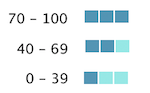
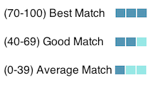
FIxing minor issues in front end

Changed region(s): [[0.0267, 0.6882, 0.9867, 0.9032], [0.0267, 0.3871, 0.9867, 0.5806], [0.0267, 0.086, 0.9867, 0.2581]]

diff --git a/static/js/main.js b/static/js/main.js
@@ -101,12 +101,12 @@ $(document).ready(function () {
         // console.log(data.title_data);
 
         var link1 = "http://www.simplyhired.com/k-";
-        var link3 = "-jobs.html";
+        var link3 = "-l-san-francisco-ca-jobs.html";
         var i = 0;
 
         $("#predictions-div").empty();
         $('#spinner-id').css('display', 'none');
-        $("#predictions-div").append($('<div class="column-90 column block-title"><h3>Your Top Jobs</h3></div><div class="column-10 column block-title"><h3><i class="fa fa-info-circle" title="The top job predictions are made based on various factors like your skills, education, degree level etc."></i></h3></div>'))
+        $("#predictions-div").append($('<div class="column-90 column block-title"><h3>Your Top Matches</h3></div><div class="column-10 column block-title"><h3><i class="fa fa-info-circle" title="Your top job predictions are determined based on various factors like your skills, education, degree level etc. We compare you against others similar to you to help you decide what you prospective next step could be"></i></h3></div>'))
         $("#predicted-titles-list" ).remove();
         var predicted_titles_list = $('<ul id="predicted-titles-list"></ul>');
 
@@ -120,36 +120,46 @@ $(document).ready(function () {
             var href = link1.concat(predicted[i].concat(link3));
             cand_skill_list = data.candidate_skills[predicted[i]];
 
-            li.append($('<div><a target="_blank" href="' + href + '">' + predicted[i] + '</a><div id="score-div"><span class="score" title="Calculated Score">' + scores[i] + '</span><div class="bar-div" title=""><span class="bar" id="bar1-' + i + '"></span><span class="bar" id="bar2-' + i + '"></span><span class="bar" id="bar3-' + i + '"></span></div></div></div>'));
+            li.append($('<div>' + predicted[i] + '<div id="score-div"><span class="score" title="Calculated Score">' + scores[i] + '</span><div class="bar-div" title=""><span class="bar" id="bar1-' + i + '"></span><span class="bar" id="bar2-' + i + '"></span><span class="bar" id="bar3-' + i + '"></span></div></div></div>'));
 
             var skill_div = $('<div class="skills-list-div"></div>');
             var skill_ul = $('<ul class="skills-list"></ul>');
-            skill_ul.append($('<li><strong>Matching Skills:</strong></li>'));
+            skill_ul.append($('<li><strong>Your matching Skills:</strong></li>'));
 
             skill_div.append(skill_ul);
 
             for (var k = 0; k < cand_skill_list.length; k++) {
                 skill_ul.append($('<li>· ' + cand_skill_list[k] + '</li>'));
             }
-            li.append(skill_div);
+            if (k !=0){
+                li.append(skill_div);
+            }
+
 
             var more_info = $('<div class="more-info-div" id="more-' + i + '"></div>');
-            more_info.append($('<div><span><strong>Average Salary: </strong>' + data.title_data[predicted[i]]["salary"] + '</div></span>'));
+            more_info.append($('<div><span><strong>Salary (US National Average): </strong>' + data.title_data[predicted[i]]["salary"] + '</div></span>'));
             more_info.append($('<div><span><strong>Education Level: </strong>' + data.title_data[predicted[i]]["education"] + '</div></span>'));
             // more_info.append($('<div><span><strong>Average Experience: </strong>5 Years</div></span>'));
             more_info.append($('<div><span><strong>Projected Jobs (2012 - 2022): </strong>' + data.title_data[predicted[i]]["trends"]["Projected job openings (2012-2022)"] + '</div></span>'));
             more_info.append($('<div><span><strong>Projected Growth (2012 - 2022): </strong>' + data.title_data[predicted[i]]["trends"]["Projected growth (2012-2022)"] + '</div></span>'));
             var rel_job = '';
             for (var a = 0; a < data.title_data[predicted[i]]["related_titles"].length; a++) {
+                if (a != data.title_data[predicted[i]]["related_titles"].length - 1){
                 rel_job = rel_job + data.title_data[predicted[i]]["related_titles"][a] + ', '
+                }
+                else{
+                   rel_job = rel_job + data.title_data[predicted[i]]["related_titles"][a]
+                }
             }
             if (rel_job) {
                 more_info.append($('<div><span><strong>Related Job Titles: </strong>' + rel_job + '</div></span>'));
             }
             more_info.append($('<div><span><a target="_blank" href="' + href + '">Search ' + predicted[i] + ' Jobs</a></div></span>'));
 
+            if (k !=0){
             li.append(more_info);
             predicted_titles_list.append(li);
+            }
         }
 
         $("#predictions-div").append(predicted_titles_list);
@@ -169,7 +179,7 @@ $(document).ready(function () {
         for (var i = 0; i < all_titles.length; i++) {
             sel1.append($("<option>").attr('value', all_titles[i]).text(all_titles[i]));
         }
-        $("#skills-div").append($('<div class="column-90 column block-title"><h3>Top Skills For Jobs</h3></div><div class="column-10 column block-title"><h3><i class="fa fa-info-circle" title="Top skills for each job is displayed below. Select an option to find the top skills for the job"></i></h3></div>'));
+        $("#skills-div").append($('<div class="column-90 column block-title"><h3>Top Skills For Jobs</h3></div><div class="column-10 column block-title"><h3><i class="fa fa-info-circle" title="Select a Job and find out what skills are most important to land at the selected job"></i></h3></div>'));
         $("#skills-div").append(sel1);
 
         $('#skill-map').val(predicted[0]);
@@ -223,7 +233,7 @@ $(document).ready(function () {
 
         $(".more-info-div").hide();
 
-        $('#skill-search').append($('<div class="column-90 column block-title"><h3>Skill Search</h3></div><div class="column-10 column block-title"><h3><i class="fa fa-info-circle" title="Search for your skills to find jobs that people with same skills work"></i></h3></div>'));
+        $('#skill-search').append($('<div class="column-90 column block-title"><h3>Skill Search</h3></div><div class="column-10 column block-title"><h3><i class="fa fa-info-circle" title="Have a peculiar skill? Search for your skills to explore what jobs require your special skill"></i></h3></div>'));
         var skill_input_div = $('<div class="column-100 column"><input type="text" name="skill" id="skill-ajax" style="position: relative; z-index: 2;"/><input id="skill-submit-button" class="btn btn-primary pull-right" type="submit" value="Go" /></div><input type = "hidden" type="text" name="skill" id="skill-ajax-x" disabled="disabled" style="color: #CCC; absolute: relative; background: transparent; z-index: 1;"/></div>');
         $('#skill-search').append(skill_input_div);
 

diff --git a/static/js/tree.js b/static/js/tree.js
@@ -8,7 +8,7 @@ $(document).ready(function () {
 $("#inputs").empty;
 
 if (university.length > 2) {
-  var h3 = $('<h3>Displaying top employers from your connections. Enter your major and fiter these results!</h3><br>');
+  var h3 = $('<h3>Displaying top employers from your university first degree connections. Enter your major to personalize your results!</h3><br>');
   var form = $('<form id="input-form"></form>');
   var major_div = $('<div class="column-33 column"><input type="text" name="major" id="major-ajax" style="position: relative; z-index: 2; background: transparent;"/></div>');
   var submit_button = $('<div class="column-25 column"><input id="tree-submit-button" class="btn btn-primary pull-right" type="submit" value="Re-create network" /></div>');
@@ -151,7 +151,7 @@ var tree = d3.layout.tree()
 
 var diagonal = d3.svg.diagonal()
     .projection(function(d) { return [d.y, d.x]; });
-
+$('#tree-graph').append('<h3>Click on the nodes to view your second degree connection employers</h3></br>')
 var svg = d3.select("#tree-graph").append("svg")
     .attr("width", width + margin.right + margin.left)
     .attr("height", height + margin.top + margin.bottom)
@@ -200,7 +200,7 @@ function update(source) {
       links = tree.links(nodes);
 
   // Normalize for fixed-depth.
-  nodes.forEach(function(d) { d.y = d.depth * 180 * 1.5; });
+  nodes.forEach(function(d) { d.y = d.depth * 180 * 2; });
 
   // Update the nodes…
   var node = svg.selectAll("g.node")
@@ -211,7 +211,24 @@ function update(source) {
   var nodeEnter = node.enter().append("g")
       .attr("class", "node")
       .attr("transform", function(d) { return "translate(" + source.y0 + "," + source.x0 + ")"; })
-      .on("click", click);
+      .on("click", click)
+      .on("mouseover", function(d) {
+      if ((d._children) || (d.children)){
+      var g = d3.select(this); // The node
+      // The class is used to remove the additional text later
+      var info = g.append('text')
+         .classed('info', true)
+         .attr('x', 20)
+         .attr('y', 10)
+         .text('');
+      }
+      })
+      .on("mouseout", function(d) {
+      // Remove the info text on mouse out.
+      if ((d._children) || (d.children)){
+      d3.select(this).select('text.info').remove();
+      }
+     });
 
   nodeEnter.append("circle")
       .attr("r", function(d) { return d._children ? (((d._children.length - min)*newRange/oldRange)+ newMin) : d.children? (((d.children.length - min)*newRange/oldRange)+ newMin) : 4; })

diff --git a/static/css/network.css b/static/css/network.css
@@ -17,6 +17,21 @@ path.link {
 #licensing {
   fill: green;
 }
+#tree-graph h3 {
+    text-align: center;
+}
+g.tooltip {
+  position: absolute;
+  text-align: center;
+  width: 60px;
+  height: 28px;
+  padding: 2px;
+  font: 12px sans-serif;
+  background: lightsteelblue;
+  border: 0px;
+  border-radius: 8px;
+  pointer-events: none;
+}
 .node {
   cursor: pointer;
 }
